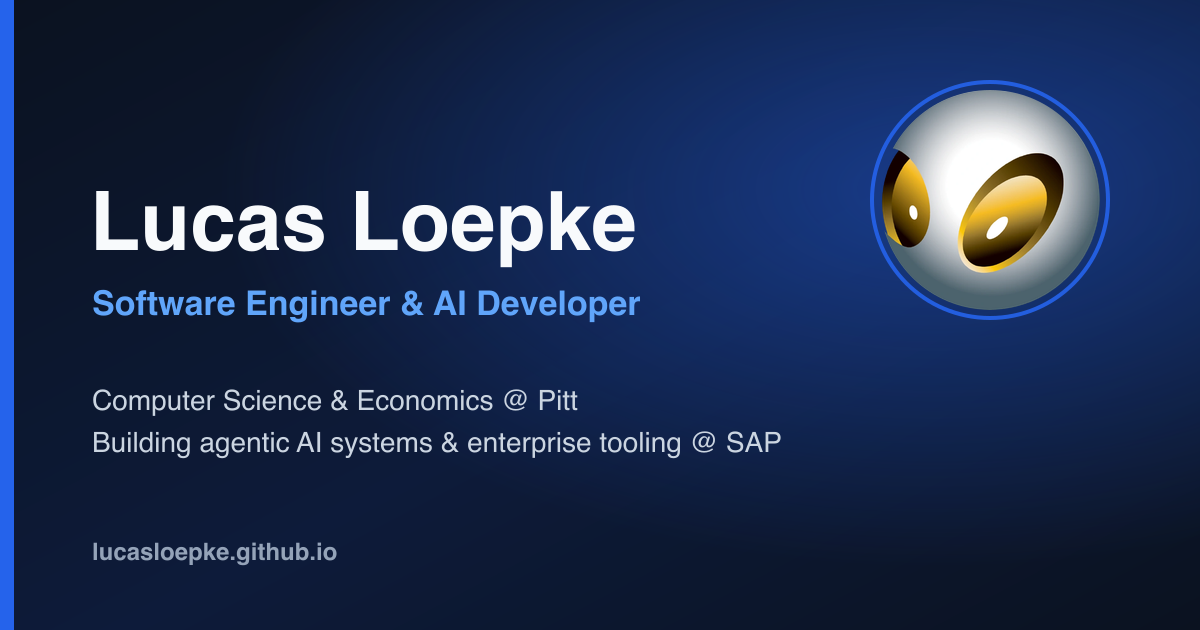
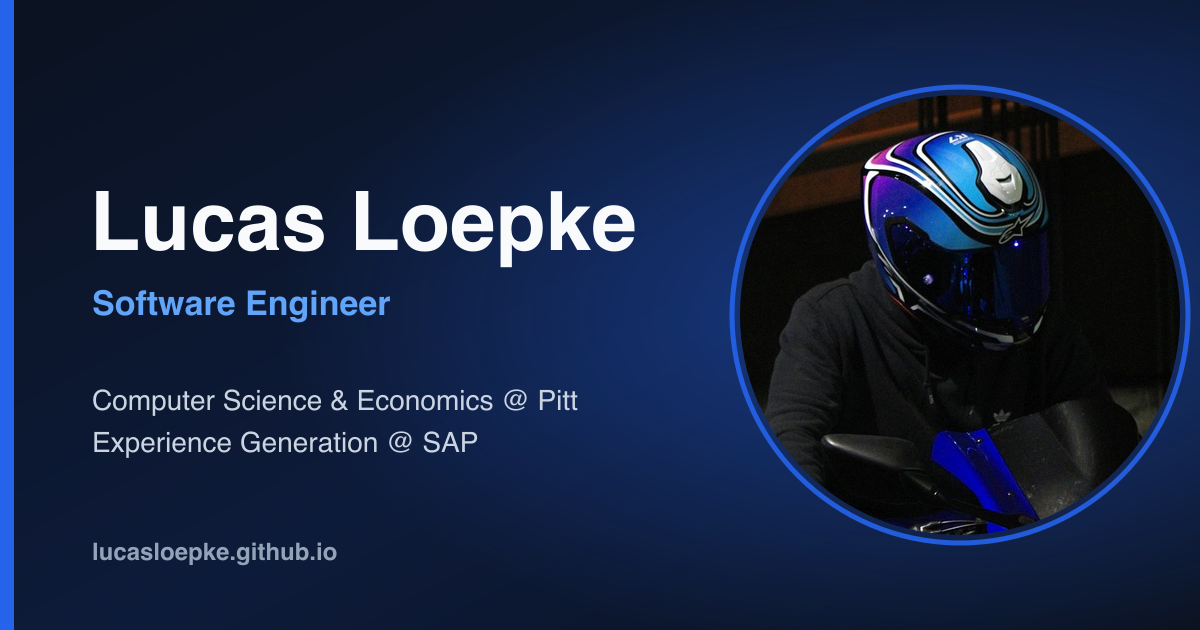
portrait update and seo

diff --git a/index.html b/index.html
@@ -22,9 +22,26 @@
     <meta name="theme-color" content="#0b1220" />
     <link rel="canonical" href="https://lucasloepke.github.io/" />
 
+    <!-- Prevent white flash before CSS/JS: match site dark canvas on first paint -->
+    <style>
+      html, body { background-color: #0b1220; margin: 0; }
+      /* Crawlable for bots; not shown to users (React paints the real UI) */
+      #seo-crawl {
+        position: absolute;
+        width: 1px;
+        height: 1px;
+        padding: 0;
+        margin: -1px;
+        overflow: hidden;
+        clip: rect(0, 0, 0, 0);
+        white-space: nowrap;
+        border: 0;
+      }
+    </style>
+
     <!-- Icons -->
     <link rel="icon" type="image/x-icon" href="/favicon.ico" />
-    <link rel="apple-touch-icon" href="/profilepic.png" />
+    <link rel="apple-touch-icon" href="/portrait.jpg" />
 
     <!-- Open Graph -->
     <meta property="og:type" content="website" />
@@ -40,7 +57,7 @@
     <meta property="og:image:type" content="image/png" />
     <meta property="og:image:width" content="1200" />
     <meta property="og:image:height" content="630" />
-    <meta property="og:image:alt" content="Lucas Loepke — Software Engineer & AI Developer" />
+    <meta property="og:image:alt" content="Lucas Loepke — Software Engineer" />
     <meta property="og:locale" content="en_US" />
 
     <!-- Twitter -->
@@ -51,7 +68,7 @@
       content="Lucas Loepke - Software Engineer at SAP and Computer Science student at University of Pittsburgh."
     />
     <meta name="twitter:image" content="https://lucasloepke.github.io/og-image.png" />
-    <meta name="twitter:image:alt" content="Lucas Loepke — Software Engineer & AI Developer" />
+    <meta name="twitter:image:alt" content="Lucas Loepke — Software Engineer" />
 
     <!-- Structured data: Person -->
     <script type="application/ld+json">
@@ -60,9 +77,14 @@
         "@type": "Person",
         "name": "Lucas Loepke",
         "url": "https://lucasloepke.github.io/",
-        "image": "https://lucasloepke.github.io/profilepic.png",
+        "image": {
+          "@type": "ImageObject",
+          "contentUrl": "https://lucasloepke.github.io/portrait.jpg",
+          "url": "https://lucasloepke.github.io/portrait.jpg",
+          "caption": "Lucas Loepke on a Yamaha R7 motorcycle"
+        },
         "jobTitle": "Software Engineer",
-        "description": "Computer Science & Economics student building agentic AI systems and enterprise tooling.",
+        "description": "Computer Science & Economics student and Software Engineer Intern for Experience Generation at SAP.",
         "worksFor": {
           "@type": "Organization",
           "name": "SAP",
@@ -74,10 +96,10 @@
           "url": "https://www.pitt.edu"
         },
         "knowsAbout": [
+          "Software Engineering",
           "Agentic AI",
           "Machine Learning",
           "Full-Stack Development",
-          "Software Engineering",
           "Enterprise Software"
         ],
         "sameAs": [
@@ -87,36 +109,134 @@
       }
     </script>
 
-    <!-- Structured data: Website -->
+    <!-- Structured data: Website + ProfilePage -->
     <script type="application/ld+json">
       {
         "@context": "https://schema.org",
-        "@type": "WebSite",
-        "name": "Lucas Loepke",
-        "url": "https://lucasloepke.github.io/"
+        "@type": "ProfilePage",
+        "name": "Lucas Loepke - Software Engineer | Portfolio & Resume",
+        "url": "https://lucasloepke.github.io/",
+        "description": "Lucas Loepke - Software Engineer at SAP and Computer Science student at University of Pittsburgh.",
+        "mainEntity": {
+          "@type": "Person",
+          "name": "Lucas Loepke",
+          "url": "https://lucasloepke.github.io/"
+        },
+        "primaryImageOfPage": {
+          "@type": "ImageObject",
+          "contentUrl": "https://lucasloepke.github.io/portrait.jpg",
+          "url": "https://lucasloepke.github.io/portrait.jpg",
+          "caption": "Lucas Loepke on a Yamaha R7 motorcycle",
+          "width": 900,
+          "height": 1350
+        },
+        "image": [
+          {
+            "@type": "ImageObject",
+            "contentUrl": "https://lucasloepke.github.io/portrait.jpg",
+            "url": "https://lucasloepke.github.io/portrait.jpg",
+            "caption": "Lucas Loepke on a Yamaha R7 motorcycle",
+            "width": 900,
+            "height": 1350
+          },
+          {
+            "@type": "ImageObject",
+            "contentUrl": "https://lucasloepke.github.io/og-image.png",
+            "url": "https://lucasloepke.github.io/og-image.png",
+            "caption": "Lucas Loepke — Software Engineer | Computer Science & Economics @ Pitt | Experience Generation @ SAP",
+            "width": 1200,
+            "height": 630
+          }
+        ],
+        "isPartOf": {
+          "@type": "WebSite",
+          "name": "Lucas Loepke",
+          "url": "https://lucasloepke.github.io/"
+        }
       }
     </script>
   </head>
   <body>
+    <!--
+      Crawlable copy for search engines (visually hidden). React renders into #root.
+      Portrait remains visible in the React UI for Google Images.
+    -->
+    <div id="seo-crawl">
+      <main>
+        <header>
+          <h1>Lucas Loepke</h1>
+          <p>Computer Science &amp; Economics @ Pitt</p>
+          <p>Software Engineer Intern for Experience Generation @ SAP</p>
+          <p>
+            <a href="/projects">View Projects</a> ·
+            <a href="/Loepke_Resume.pdf">View Resume</a>
+          </p>
+          <p>
+            <img
+              src="/portrait.jpg"
+              alt="Lucas Loepke on a Yamaha R7 motorcycle"
+              width="450"
+              height="675"
+            />
+          </p>
+        </header>
+
+        <section>
+          <h2>About</h2>
+          <p>
+            I started writing code over a decade ago — my first projects were Minecraft mini-game servers that actually turned a profit. I've spent the last three years interning across three rotations at
+            <a href="https://sap.com">SAP</a>, moving from internal analytics tooling to full-stack iOS development to now building agentic AI platforms for enterprise customers.
+          </p>
+          <p>
+            I'm finishing my CS degree at Pitt and looking for new-grad SWE roles in SF or NYC — open to start as early as June 2027. Outside of work I ski, ride motorcycles, love trying new teas, and build cool projects.
+          </p>
+        </section>
+
+        <section>
+          <h2>Experience</h2>
+          <ul>
+            <li>
+              <strong>SAP</strong> — Software Engineer Intern, Experience Generation
+              (May 2026 — Present · Palo Alto, CA)
+            </li>
+            <li>
+              <strong>SAP</strong> — Software Engineer Intern, Experience Engineering
+              (May 2025 — Apr 2026 · San Ramon, CA)
+            </li>
+            <li>
+              <strong>SAP</strong> — Software Engineer Intern, CoE Analytics
+              (May 2024 — Apr 2025 · Newtown Square, PA)
+            </li>
+          </ul>
+          <p>
+            <a href="https://pitt.edu">University of Pittsburgh</a>,
+            BS: Computer Science &amp; Economics · Expected April 2027
+          </p>
+        </section>
+
+        <section>
+          <h2>Featured Projects</h2>
+          <ul>
+            <li><a href="/projects">LeetVision</a> — Chrome extension that traces LeetCode/NeetCode Python solutions line-by-line.</li>
+            <li><a href="/projects">Simple Canvas Tasks</a> — Privacy-first Canvas LMS to-do Chrome extension.</li>
+            <li><a href="/projects">Steam Game Recommender</a> — Collaborative-filtering recommender with ALS matrix factorization.</li>
+            <li><a href="/projects">Cleanup Crew</a> — Rust/Bevy action game published on Steam.</li>
+            <li><a href="/projects">Trust Circle</a> — Winning SAP STAR Hacks 2025 group savings platform.</li>
+          </ul>
+          <p><a href="/projects">View all projects →</a></p>
+        </section>
+
+        <footer>
+          <p>
+            <a href="https://github.com/lucasloepke">GitHub</a> ·
+            <a href="https://www.linkedin.com/in/lucasloepke/">LinkedIn</a> ·
+            <a href="/Loepke_Resume.pdf">Resume</a> ·
+            <a href="https://lucasloepke.github.io/">lucasloepke.github.io</a>
+          </p>
+        </footer>
+      </main>
+    </div>
     <div id="root"></div>
-    <noscript>
-      <div style="max-width: 640px; margin: 3rem auto; padding: 0 1rem; font-family: system-ui, sans-serif; line-height: 1.6;">
-        <h1>Lucas Loepke</h1>
-        <p>
-          Computer Science &amp; Economics student at the University of Pittsburgh,
-          building agentic AI systems and enterprise tooling at SAP.
-        </p>
-        <p>
-          This site is interactive and works best with JavaScript enabled. You can
-          still reach me here:
-        </p>
-        <ul>
-          <li><a href="https://github.com/lucasloepke">GitHub</a></li>
-          <li><a href="https://www.linkedin.com/in/lucasloepke/">LinkedIn</a></li>
-          <li><a href="/Loepke_Resume.pdf">Resume (PDF)</a></li>
-        </ul>
-      </div>
-    </noscript>
     <script type="module" src="/src/main.jsx"></script>
   </body>
 </html>

diff --git a/src/pages/Home.tsx b/src/pages/Home.tsx
@@ -69,16 +69,17 @@ export function Home() {
                   </a>
                 </div>
               </div>
-              <picture className="pointer-events-none absolute -top-16 right-28 z-10 hidden w-56 sm:block lg:-top-12 lg:w-64">
+              <picture className="relative z-10 mx-auto mt-8 block w-44 md:absolute md:top-0 md:right-8 md:mt-0 md:w-[clamp(13rem,22vw,16rem)] md:-translate-x-20 md:-translate-y-12">
                 <source srcSet="/portrait.webp" type="image/webp" />
                 <img
                   src="/portrait.jpg"
-                  alt="Lucas Loepke on a Yamaha R7"
+                  alt="Lucas Loepke on a Yamaha R7 motorcycle"
                   width={900}
                   height={1350}
                   className="aspect-[2/3] w-full rounded-2xl object-cover shadow-[0_20px_50px_-20px_rgba(0,0,0,0.6)] ring-1 ring-white/10"
                   loading="eager"
                   decoding="async"
+                  fetchPriority="high"
                 />
               </picture>
             </Container>
